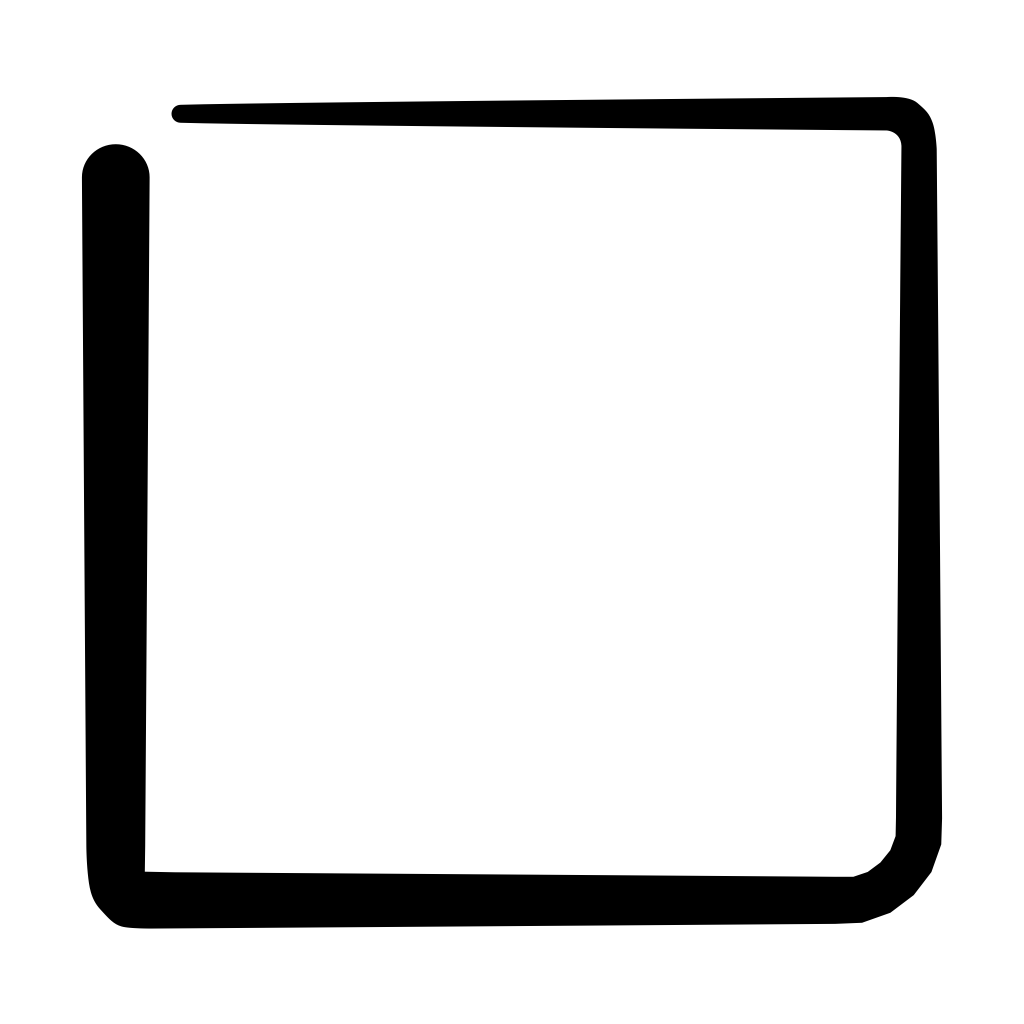
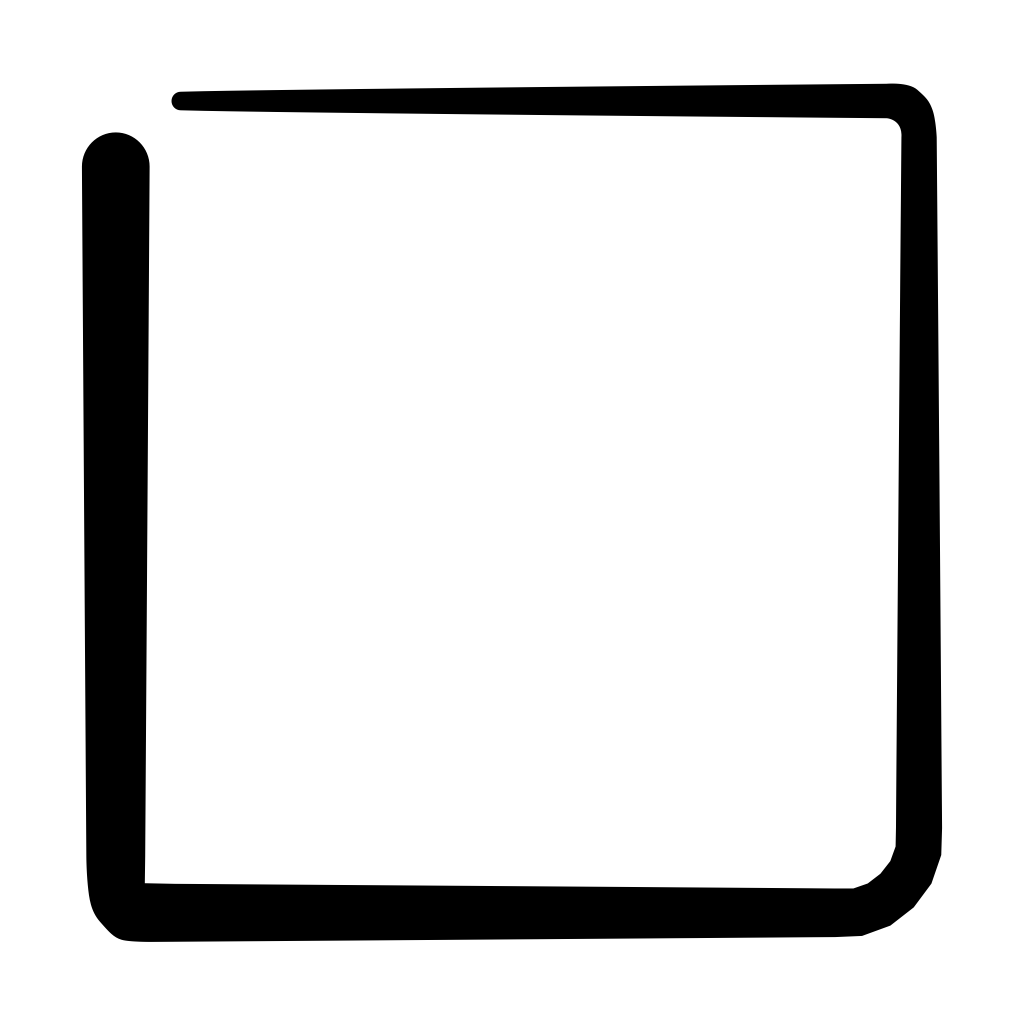
square the square, and add code, terminal and external-link
The square is a SQUARE. The Inkscape export came with a transform matrix
whose x and y scales differ (0.0755577 against 0.07398388) and that
anisotropy stays baked into the path: the ink was 14.978 x 14.513 u, 3.1%
taller than wide. clean_svg.py now stretches only the y axis around the
ink's vertical centre, so the ink is exactly 120 x 120 and the viewBox is
0 0 120 120.

A square viewBox alone would NOT have done it: with the ink still
rectangular inside, the shape would just get a tighter top and bottom
margin. The ink itself has to be stretched.

code, terminal and external-link come from Feather verbatim, with the
path data extracted by feather_to_d.py instead of typed by hand.

The set now has 30 masters; 26 pass the validator. The four that do not
are the prebuilt assets, as before.

Also untracks pencil-icons-blog/.DS_Store for good.

Changed region(s): [[0.0938, 0.8125, 0.9375, 0.9375], [0.1562, 0.0625, 0.9375, 0.1562], [0.0625, 0.125, 0.1562, 0.1562]]

diff --git a/pencil-icons-blog/blog/preview.html b/pencil-icons-blog/blog/preview.html
@@ -20,5 +20,5 @@
 <p class="sub">Vector masters in <code>svg/</code> · raster previews in
 <code>png-256/</code>, <code>png-512/</code>, <code>png-1024/</code></p>
 <div class="grid">
-<figure><img src="svg/chevron.svg" alt="chevron" width="160" height="160"><figcaption>chevron</figcaption></figure><figure><img src="svg/plus.svg" alt="plus" width="160" height="160"><figcaption>plus</figcaption></figure><figure><img src="svg/arrow-right.svg" alt="arrow-right" width="160" height="160"><figcaption>arrow-right</figcaption></figure><figure><img src="svg/zigzag.svg" alt="zigzag" width="160" height="160"><figcaption>zigzag</figcaption></figure><figure><img src="svg/heart.svg" alt="heart" width="160" height="160"><figcaption>heart</figcaption></figure><figure><img src="svg/menu.svg" alt="menu" width="160" height="160"><figcaption>menu</figcaption></figure><figure><img src="svg/square.svg" alt="square" width="160" height="160"><figcaption>square</figcaption></figure><figure><img src="svg/arrow-up.svg" alt="arrow-up" width="160" height="160"><figcaption>arrow-up</figcaption></figure><figure><img src="svg/list.svg" alt="list" width="160" height="160"><figcaption>list</figcaption></figure><figure><img src="svg/align-justify.svg" alt="align-justify" width="160" height="160"><figcaption>align-justify</figcaption></figure><figure><img src="svg/hash.svg" alt="hash" width="160" height="160"><figcaption>hash</figcaption></figure><figure><img src="svg/x-close.svg" alt="x-close" width="160" height="160"><figcaption>x-close</figcaption></figure><figure><img src="svg/rectangle-rounded.svg" alt="rectangle-rounded" width="160" height="160"><figcaption>rectangle-rounded</figcaption></figure><figure><img src="svg/arrow-left.svg" alt="arrow-left" width="160" height="160"><figcaption>arrow-left</figcaption></figure><figure><img src="svg/arrow-down.svg" alt="arrow-down" width="160" height="160"><figcaption>arrow-down</figcaption></figure><figure><img src="svg/arrow-up-right.svg" alt="arrow-up-right" width="160" height="160"><figcaption>arrow-up-right</figcaption></figure><figure><img src="svg/mail.svg" alt="mail" width="160" height="160"><figcaption>mail</figcaption></figure><figure><img src="svg/search.svg" alt="search" width="160" height="160"><figcaption>search</figcaption></figure><figure><img src="svg/linkedin.svg" alt="linkedin" width="160" height="160"><figcaption>linkedin</figcaption></figure><figure><img src="svg/chevron-down.svg" alt="chevron-down" width="160" height="160"><figcaption>chevron-down</figcaption></figure><figure><img src="svg/chevron-right.svg" alt="chevron-right" width="160" height="160"><figcaption>chevron-right</figcaption></figure><figure><img src="svg/chevron-left.svg" alt="chevron-left" width="160" height="160"><figcaption>chevron-left</figcaption></figure><figure><img src="svg/arrow-up-left.svg" alt="arrow-up-left" width="160" height="160"><figcaption>arrow-up-left</figcaption></figure><figure><img src="svg/arrow-down-right.svg" alt="arrow-down-right" width="160" height="160"><figcaption>arrow-down-right</figcaption></figure><figure><img src="svg/arrow-down-left.svg" alt="arrow-down-left" width="160" height="160"><figcaption>arrow-down-left</figcaption></figure><figure><img src="svg/copy-link.svg" alt="copy-link" width="160" height="160"><figcaption>copy-link</figcaption></figure><figure><img src="svg/github.svg" alt="github" width="160" height="160"><figcaption>github</figcaption></figure>
+<figure><img src="svg/chevron.svg" alt="chevron" width="160" height="160"><figcaption>chevron</figcaption></figure><figure><img src="svg/plus.svg" alt="plus" width="160" height="160"><figcaption>plus</figcaption></figure><figure><img src="svg/arrow-right.svg" alt="arrow-right" width="160" height="160"><figcaption>arrow-right</figcaption></figure><figure><img src="svg/zigzag.svg" alt="zigzag" width="160" height="160"><figcaption>zigzag</figcaption></figure><figure><img src="svg/heart.svg" alt="heart" width="160" height="160"><figcaption>heart</figcaption></figure><figure><img src="svg/menu.svg" alt="menu" width="160" height="160"><figcaption>menu</figcaption></figure><figure><img src="svg/square.svg" alt="square" width="160" height="160"><figcaption>square</figcaption></figure><figure><img src="svg/arrow-up.svg" alt="arrow-up" width="160" height="160"><figcaption>arrow-up</figcaption></figure><figure><img src="svg/list.svg" alt="list" width="160" height="160"><figcaption>list</figcaption></figure><figure><img src="svg/align-justify.svg" alt="align-justify" width="160" height="160"><figcaption>align-justify</figcaption></figure><figure><img src="svg/hash.svg" alt="hash" width="160" height="160"><figcaption>hash</figcaption></figure><figure><img src="svg/x-close.svg" alt="x-close" width="160" height="160"><figcaption>x-close</figcaption></figure><figure><img src="svg/rectangle-rounded.svg" alt="rectangle-rounded" width="160" height="160"><figcaption>rectangle-rounded</figcaption></figure><figure><img src="svg/arrow-left.svg" alt="arrow-left" width="160" height="160"><figcaption>arrow-left</figcaption></figure><figure><img src="svg/arrow-down.svg" alt="arrow-down" width="160" height="160"><figcaption>arrow-down</figcaption></figure><figure><img src="svg/arrow-up-right.svg" alt="arrow-up-right" width="160" height="160"><figcaption>arrow-up-right</figcaption></figure><figure><img src="svg/mail.svg" alt="mail" width="160" height="160"><figcaption>mail</figcaption></figure><figure><img src="svg/search.svg" alt="search" width="160" height="160"><figcaption>search</figcaption></figure><figure><img src="svg/linkedin.svg" alt="linkedin" width="160" height="160"><figcaption>linkedin</figcaption></figure><figure><img src="svg/chevron-down.svg" alt="chevron-down" width="160" height="160"><figcaption>chevron-down</figcaption></figure><figure><img src="svg/chevron-right.svg" alt="chevron-right" width="160" height="160"><figcaption>chevron-right</figcaption></figure><figure><img src="svg/chevron-left.svg" alt="chevron-left" width="160" height="160"><figcaption>chevron-left</figcaption></figure><figure><img src="svg/arrow-up-left.svg" alt="arrow-up-left" width="160" height="160"><figcaption>arrow-up-left</figcaption></figure><figure><img src="svg/arrow-down-right.svg" alt="arrow-down-right" width="160" height="160"><figcaption>arrow-down-right</figcaption></figure><figure><img src="svg/arrow-down-left.svg" alt="arrow-down-left" width="160" height="160"><figcaption>arrow-down-left</figcaption></figure><figure><img src="svg/copy-link.svg" alt="copy-link" width="160" height="160"><figcaption>copy-link</figcaption></figure><figure><img src="svg/github.svg" alt="github" width="160" height="160"><figcaption>github</figcaption></figure><figure><img src="svg/code.svg" alt="code" width="160" height="160"><figcaption>code</figcaption></figure><figure><img src="svg/terminal.svg" alt="terminal" width="160" height="160"><figcaption>terminal</figcaption></figure><figure><img src="svg/external-link.svg" alt="external-link" width="160" height="160"><figcaption>external-link</figcaption></figure>
 </div>

diff --git a/pencil-icons-blog/clean_svg.py b/pencil-icons-blog/clean_svg.py
@@ -26,7 +26,7 @@ from svgkit import parse_path, path_bbox  # noqa: E402
 TARGET_WIDTH = 120.0
 
 
-def clean(src_path, out_path, title=""):
+def clean(src_path, out_path, title="", square_ink=False):
     raw = open(src_path, encoding="utf-8").read()
     d = re.search(r'\sd="([^"]+)"', raw, re.S).group(1)
     m = re.search(r'transform="matrix\(([^)]+)\)"', raw)
@@ -56,6 +56,36 @@ def clean(src_path, out_path, title=""):
     cmds = [(c, [] if c == "Z" else [(x * k + dx, y * k + dy) for x, y in ps])
             for c, ps in cmds]
     vw, vh = round(TARGET_WIDTH, 3), round(h * k, 3)
+
+    if square_ink:
+        # El dibujo es un CUADRADO, pero sale rectangular: el export de
+        # Inkscape trae una matriz con escalas distintas en x e y
+        # (0.0755577 contra 0.07398388), y esa diferencia se queda horneada
+        # en el path. Se corrige estirando SOLO el eje y para que la tinta
+        # quede cuadrada, alrededor del centro vertical de la tinta.
+        #
+        # OJO: esto no es un simple ajuste del viewBox. Un viewBox cuadrado
+        # con la tinta rectangular dentro NO da un cuadrado: el margen queda
+        # mas angosto a lo alto. Hay que estirar la tinta.
+        #
+        # La diferencia es de 3.2%: 1.021 de la matriz (el artefacto del
+        # export) y el 1% restante es la propia forma dibujada.
+        y0 = min(p[1] for c, ps in cmds if c != "Z" for p in ps)
+        y1 = max(p[1] for c, ps in cmds if c != "Z" for p in ps)
+        s = vw / vh
+        yc = (y0 + y1) / 2.0
+        cmds = [(c, [] if c == "Z" else
+                 [(x, yc + (y - yc) * s) for x, y in ps])
+                for c, ps in cmds]
+        vh = round(vh * s, 3)
+        # el escalado movio la tinta: hay que volver a pegarla al origen
+        ny0 = min(p[1] for c, ps in cmds if c != "Z" for p in ps)
+        ny1 = max(p[1] for c, ps in cmds if c != "Z" for p in ps)
+        nx0 = min(p[0] for c, ps in cmds if c != "Z" for p in ps)
+        cmds = [(c, [] if c == "Z" else
+                 [(x - nx0, y - ny0) for x, y in ps])
+                for c, ps in cmds]
+        print(f"  tinta cuadrada: y x{s:.5f} -> viewBox 0 0 {vw:g} {vh:g}")
 
     # emitir en absoluto, una sola subpath
     parts = []
@@ -102,13 +132,13 @@ def clean(src_path, out_path, title=""):
 if __name__ == "__main__":
     SRC = os.path.join(HERE, "sources")
     jobs = [
-        ("rect.svg", "rect-corregido.svg", "rectangulo: viewBox y transform horneados"),
-        ("square.svg", "square-corregido.svg", "cuadrado: viewBox y transform horneados"),
-        ("search.svg", "search-corregido.svg", "lupa: viewBox y transform horneados"),
+        ("rect.svg", "rect-corregido.svg", "rectangulo: viewBox y transform horneados", False),
+        ("square.svg", "square-corregido.svg", "cuadrado: viewBox y transform horneados, tinta cuadrada", True),
+        ("search.svg", "search-corregido.svg", "lupa: viewBox y transform horneados", False),
     ]
-    for src, out, title in jobs:
+    for src, out, title, sq in jobs:
         s = os.path.join(SRC, src)
         if not os.path.exists(s):
             print(f"  (falta {s}, se salta)")
             continue
-        clean(s, os.path.join(HERE, out), title)
+        clean(s, os.path.join(HERE, out), title, square_ink=sq)

diff --git a/pencil-icons-blog/blog/README.md b/pencil-icons-blog/blog/README.md
@@ -12,14 +12,14 @@ project: it is a reusable brand asset, not part of an app.
 
 ## Contents
 ```
-svg/          27 vector masters @ 1024x1024  <- the real assets
+svg/          30 vector masters @ 1024x1024  <- the real assets
 png-256/      raster previews @ 256
 png-512/      raster previews @ 512
 png-1024/     raster previews @ 1024
 source-d.json original source path data per icon
 manifest.json full parameter set + validator result + warnings per icon
 preview.html  browser gallery (open directly, no server)
-contact-sheet.png  all 27 on one sheet
+contact-sheet.png  all 30 on one sheet
 ```
 
 Four things sit **next to** this folder, one level up:
@@ -86,12 +86,19 @@ travels with the shape: `chevron-left` is `chevron` turned on its side, not a ne
 that happens to look like it. The four diagonal arrows are the four corners of the same
 stroke, and they read as one family.
 
-**2 more came from Feather** (the sources are in `sources/feather-*.svg`):
+**5 more came from Feather** (the sources are in `sources/feather-*.svg`):
 
 | icon | how it was derived |
 |---|---|
 | `github` | Feather's octocat, in **two strokes**: the head near-uniform, the tail tapering to its tip |
 | `copy-link` | Feather's `link` at 100 % + a plus badge at the bottom-right |
+| `code` | Feather's `code`, verbatim — two chevrons |
+| `terminal` | Feather's `terminal`, verbatim — a chevron and a prompt line |
+| `external-link` | Feather's `external-link`, verbatim — a box with an arrow leaving it |
+
+The `d` of each one is extracted from the SVG by `feather_to_d.py`, not typed by
+hand: a mistyped arc flag turns into a spike, and there is no way to see it in the
+source.
 
 ### The `rectangle-golden` is retired
 
@@ -244,7 +251,7 @@ carried through unchanged, with only the viewBox and the canvas fit fixed.
 
 ## The rectangle, used verbatim
 
-Four of the 27 icons do not come out of the stroke pipeline. `rectangle-rounded`,
+Four of the 30 icons do not come out of the stroke pipeline. `rectangle-rounded`,
 `square`, `search` and `mail` are **finished SVGs** that the build copies in as-is:
 
 ```json
@@ -289,6 +296,32 @@ the file, not a defect in the drawing.
 
 The `mail` flap, which **is** pipeline output, passes every geometry check; only the
 rectangle subpath is flagged.
+
+## The square
+
+Your drawing, cleaned and **squared**. The export came out of Inkscape with a
+transform matrix whose x and y scales are different (`0.0755577` against
+`0.07398388`), and that anisotropy stays baked into the path: the ink came out
+**14.978 × 14.513 u** — 3.1 % taller than wide, so a square read as a rectangle.
+
+The correction stretches **only the y axis**, around the vertical centre of the ink,
+so the ink is exactly 120 × 120 and the viewBox is `0 0 120 120`:
+
+```
+antes:      viewBox 0 0 120 116.273      tinta 14.978 x 14.513 u   (h/w 0.96894)
+despues:   viewBox 0 0 120 120          tinta 14.978 x 14.978 u   (h/w 1.00000)
+```
+
+Two things worth knowing if you do this again:
+
+- **A square viewBox does not make a square.** Making the viewBox square while the
+  ink stays rectangular just gives you a rectangle with a tighter top and bottom
+  margin. The ink itself has to be stretched.
+- The 3.1 % is not all the export's fault: 2.1 % is the matrix and the remaining
+  1 % is the shape as you drew it. The correction absorbs both, because the
+  instruction is "it is a square, it must be square".
+
+The path itself is untouched otherwise — no re-derivation, no re-stroking.
 
 ## The search
 
@@ -403,7 +436,7 @@ the diagonal chain. The alternatives were worse: `link` alone does not say "copy
 
 ## Known validator artifacts
 
-**23 of 27 pass.** The four that do not are all the same thing:
+**26 of 30 pass.** The four that do not are all the same thing:
 
 - **`rectangle-rounded`**, **`square`**, **`search`** and **`mail`** — `non-canonical
   structure`, because they are pre-baked outlines rather than pipeline output. Explained in
@@ -428,9 +461,20 @@ source, so the offset has nothing to fold.
 
 ## Not in this set
 
-Nothing that was asked for is missing any more. The set is complete: 9 requested icons
-(`search`, `arrow-left`, `arrow-right`, `arrow-down`, `arrow-up-right`, `copy-link`,
-`github`, `linkedin`, `mail`) plus 18 more that came with them or were derived.
+Nothing that was asked for is missing any more. The set is complete: the 9 requested
+icons (`search`, `arrow-left`, `arrow-right`, `arrow-down`, `arrow-up-right`,
+`copy-link`, `github`, `linkedin`, `mail`) plus 21 more that came with them, were
+derived from the base set, or came from Feather.
+
+**Left out on purpose**, out of the 8 Feather sources:
+
+- `linkedin` — Feather's version **fails**: its dot is a `<circle>`, which fills in
+  at this weight. Ours is a short stroke instead. See
+  [the linkedin dot](#the-linkedin-dot).
+- `link` — redundant next to `copy-link`, which already *is* a link plus a badge.
+- `link-2` — it reads as two brackets, not as a link.
+- `coffee` — it renders, but the three steam drops read as debris. It wants a
+  second look before it goes in.
 
 ## Verifying
 
@@ -468,6 +512,15 @@ regenerated afterwards.
 
 **Use `/opt/homebrew/bin/python3`.** The system `python3` is 3.8 and has no PIL, which the
 refresh step needs.
+
+The `d` of the five Feather icons was extracted with `feather_to_d.py`, not typed:
+
+```bash
+python3 feather_to_d.py sources/feather-code.svg     # prints one d per element
+```
+
+The elements come out one per line; in `blog-spec.json` they are joined with a space,
+which is a valid multi-subpath `d`.
 
 ### The rotated family
 
